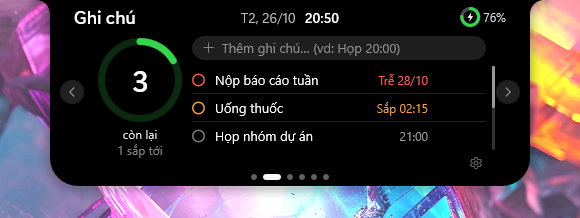
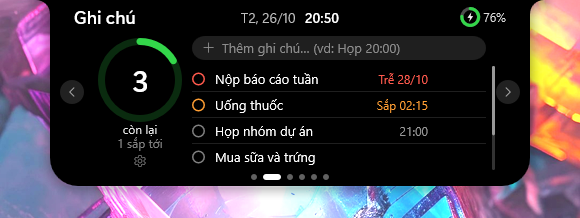
feat(notes,notifications): notes show four rows down to the page dots and the reminder gear sits in the left column; notifications rows are taller and reach the dots

diff --git a/src/render.rs b/src/render.rs
@@ -282,9 +282,10 @@ const INPUT_H: f32 = 24.0;
 const HERO_W: f32 = 92.0;
 const LIST_X: f32 = HERO_W + 6.0;
 const ROW_Y: f32 = 66.0;
-/// A task is a plain row with a hairline under it, and its tick, edit and delete buttons: 28 px high.
-const ROW_H: f32 = 28.0;
-pub const LIST_ROWS: usize = 3;
+/// A note is a plain row with a hairline under it, and its tick, edit and delete buttons: 26 px high,
+/// four of them from `ROW_Y` down to just above the page dots.
+const ROW_H: f32 = 26.0;
+pub const LIST_ROWS: usize = 4;
 /// Weather page, logical px from the content's left / the panel's top. City line: the name, then at
 /// its right end the unit chips, 24h and x. Left block: the big icon with the temperature beside it, the
 /// sky's words and the feels-like under that. Right block (from `STRIP_X` to the content's right): the
@@ -304,7 +305,7 @@ const UNIT_H: f32 = 18.0;
 /// `NOTE_X` to the content's end, a row for each notification: its app's tile, then two lines.
 const NOTE_X: f32 = 72.0;
 const NOTE_Y: f32 = 36.0;
-const NOTE_H: f32 = 38.0;
+const NOTE_H: f32 = 44.0;
 pub const NOTE_ROWS: usize = 3;
 /// "Clear all" under the count, in the left column (the click area).
 const CLEAR_W: f32 = 64.0;
@@ -390,8 +391,8 @@ pub fn page_buttons(cx: f32, scale: f32, page: Page, rows: usize, scroll: usize,
             let (x0, rw) = (cl + LIST_X, cw - LIST_X);
             out.push((Button::ListInput, r(x0, INPUT_Y, rw, INPUT_H)));
             out.push((Button::ListClear, r(x0 + rw - 26.0, INPUT_Y, 26.0, INPUT_H)));
-            // The settings gear, small, under the last row.
-            out.push((Button::Gear(Card::Tasks), r(x0 + rw - 20.0, ROW_Y + ROW_H * LIST_ROWS as f32 + 4.0, 20.0, 18.0)));
+            // The settings gear, small, in the left column under the count.
+            out.push((Button::Gear(Card::Tasks), r(cl + HERO_W / 2.0 - 10.0, 152.0, 20.0, 18.0)));
             if settings == Some(Card::Tasks) {
                 out.push((Button::RemindStep(-1), r(x0 + rw - 112.0, ROW_Y, 22.0, 22.0)));
                 out.push((Button::RemindStep(1), r(x0 + rw - 24.0, ROW_Y, 22.0, 22.0)));
@@ -2283,8 +2284,8 @@ impl Renderer {
                             let frac = if v.todos.is_empty() { 0.0 } else { done as f32 / v.todos.len() as f32 };
                             self.draw_ring_on(hub, 84.0 * s, 7.0 * s, frac, GREEN, color(GREEN.0 * 0.2, GREEN.1 * 0.2, GREEN.2 * 0.2, a), a)?;
                             text(&open.to_string(), F_FIGURE, rect(hub.0 - 40.0 * s, hub.1 - 22.0 * s, hub.0 + 40.0 * s, hub.1 + 22.0 * s), center, grey(1.0, a))?;
-                            text(tr("còn lại", "left"), F_LABEL, rect(cl, 126.0 * s, cl + HERO_W * s, 142.0 * s), center, grey(0.9, a))?;
-                            text(&format!("{later} {}", tr("sắp tới", "upcoming")), F_LABEL, rect(cl, 142.0 * s, cl + HERO_W * s, 158.0 * s), center, grey(0.5, a))?;
+                            text(tr("còn lại", "left"), F_LABEL, rect(cl, 122.0 * s, cl + HERO_W * s, 137.0 * s), center, grey(0.9, a))?;
+                            text(&format!("{later} {}", tr("sắp tới", "upcoming")), F_LABEL, rect(cl, 136.0 * s, cl + HERO_W * s, 151.0 * s), center, grey(0.5, a))?;
                             let open_set = settings == Some(Card::Tasks);
                             if let Some(gb) = rect_of(Button::Gear(Card::Tasks)) {
                                 let hot = hovered == Some(Button::Gear(Card::Tasks));
@@ -2426,12 +2427,12 @@ impl Renderer {
                                     else if todo::next_day(day) == today { tr("Hôm qua", "Yesterday").to_string() }
                                     else { format!("{:02}/{:02}", day % 100, day / 100 % 100) };
                                 // The app's tile, so it is plain whose message it is, then the two lines.
-                                note_tile(row, rect(x0, y + 3.0 * s, x0 + 30.0 * s, y + 33.0 * s))?;
+                                note_tile(row, rect(x0, y + 6.0 * s, x0 + 30.0 * s, y + 36.0 * s))?;
                                 let tx = x0 + 38.0 * s;
-                                text(&when, F_LABEL, rect(xr - 64.0 * s, y, xr, y + 20.0 * s), trail, grey(0.55, a))?;
-                                text(&n.title, F_TITLE, rect(tx, y, xr - 68.0 * s, y + 20.0 * s), lead, grey(1.0, a))?;
+                                text(&when, F_LABEL, rect(xr - 64.0 * s, y + 3.0 * s, xr, y + 23.0 * s), trail, grey(0.55, a))?;
+                                text(&n.title, F_TITLE, rect(tx, y + 3.0 * s, xr - 68.0 * s, y + 23.0 * s), lead, grey(1.0, a))?;
                                 let line2 = if n.body.is_empty() { n.app.clone() } else { format!("{} · {}", n.app, n.body) };
-                                text(&line2, F_BODY, rect(tx, y + 19.0 * s, xr, y + 37.0 * s), lead, grey(0.65, a))?;
+                                text(&line2, F_BODY, rect(tx, y + 22.0 * s, xr, y + 40.0 * s), lead, grey(0.65, a))?;
                             }
                             rt.PopAxisAlignedClip();
                             scrollbar(v.notes.len(), NOTE_ROWS, NOTE_Y, NOTE_H)?;
